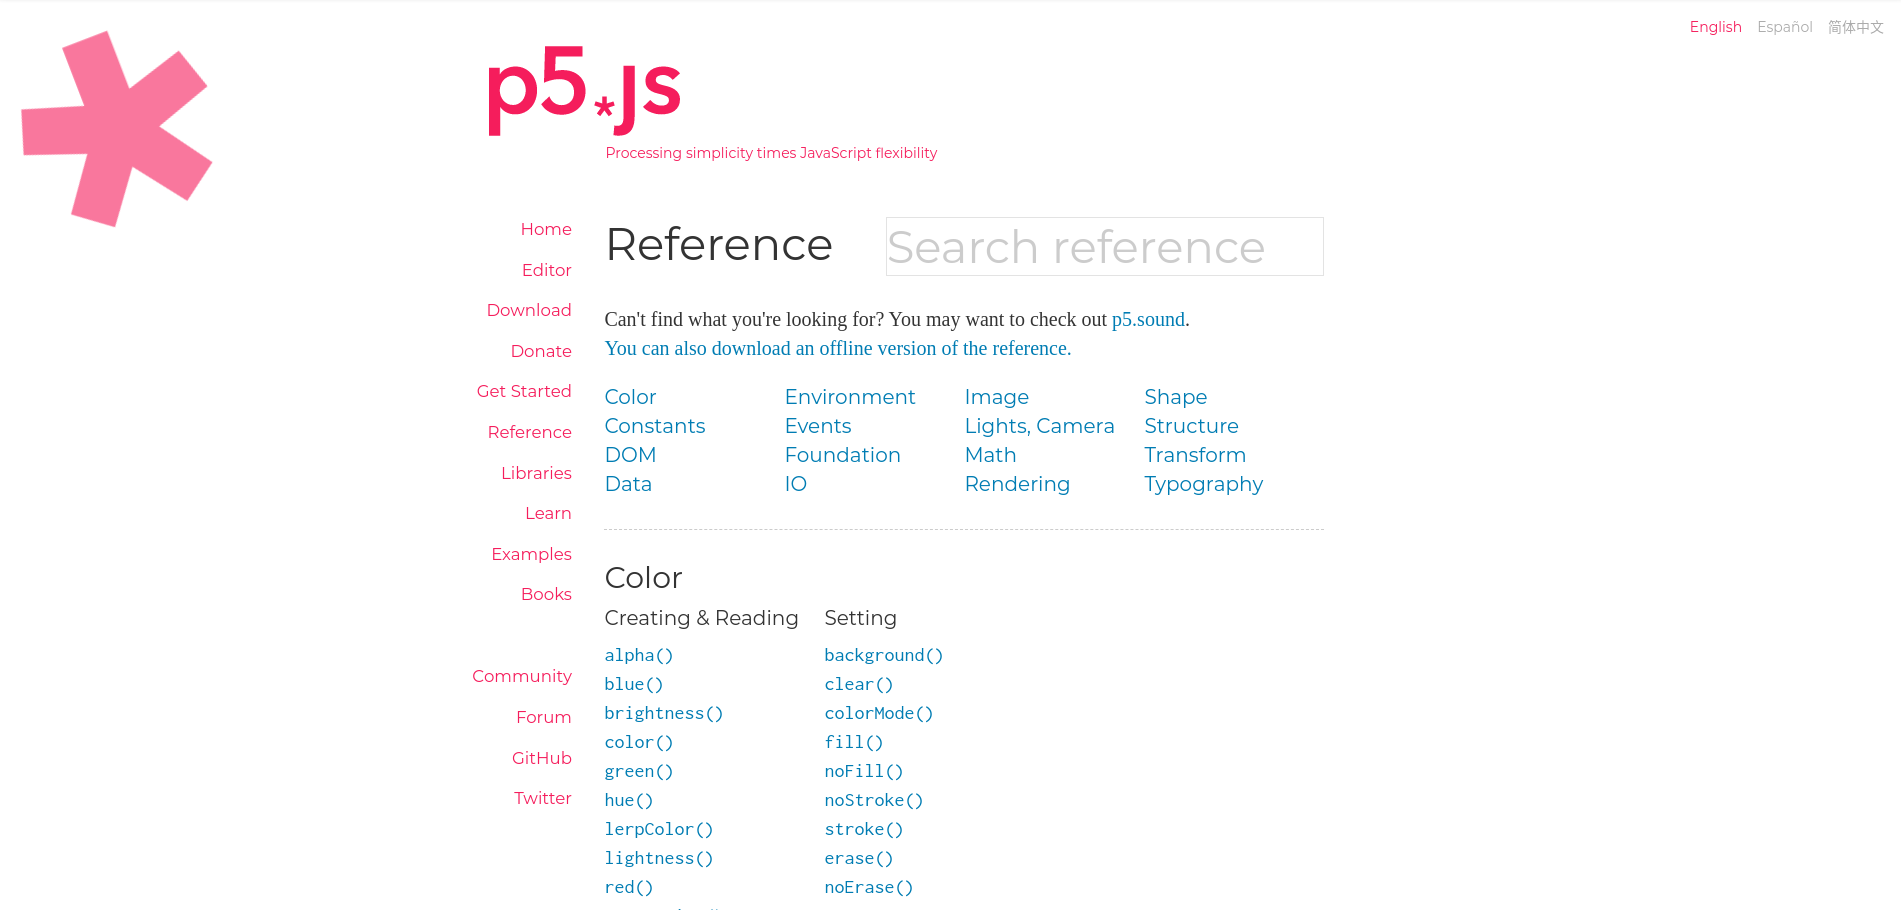
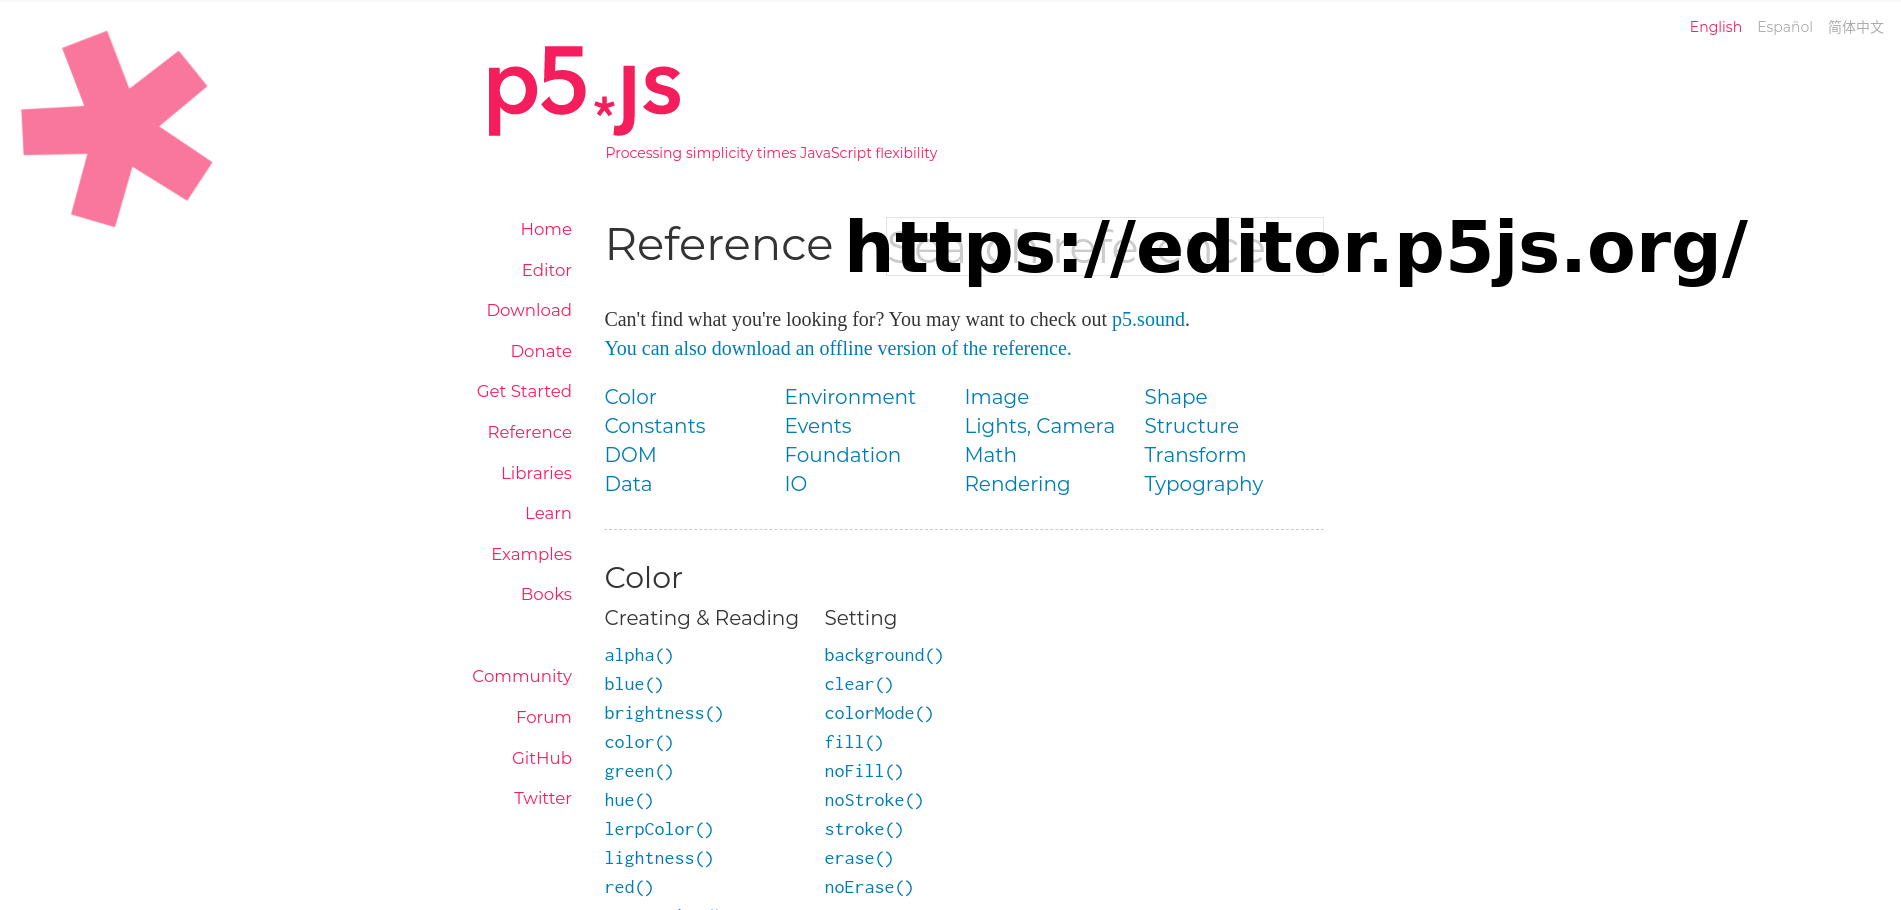
add qr-code

Changed region(s): [[0.4345, 0.2462, 0.9311, 0.3385]]

diff --git a/index.html b/index.html
@@ -164,8 +164,24 @@
             </div>
         </section>
 
+
+
         <section>
-         <span class="background" style="background-image:url('static/images/ende.jpeg'); filter: blur(8px); -webkit-filter: blur(1px)"></span>
+          <span class="background" style="background-image:url('static/images/ende.jpeg'); filter: blur(8px); -webkit-filter: blur(1px)"></span>
+          <!--.wrap = container width: 90% -->
+          <div class="wrap aligncenter">
+            <p>
+            <br><br><br><br><br><br><br>
+              <a href="https://editor.p5js.org/tinoschroeter/sketches/6b9puby6S" title="link zum Pong Spiel" class="button zoomIn ga-track" data-ga-text="Download WebSlides (first slide home)">
+                <svg class="fa-cloud-download">
+                  <use xlink:href="#fa-cloud-download"></use>
+                </svg>
+                link zum Pong Spiel      
+              </a>
+
+            </p>
+          </div>
+          <!-- .end .wrap -->  
         </section>
 
       </article>
